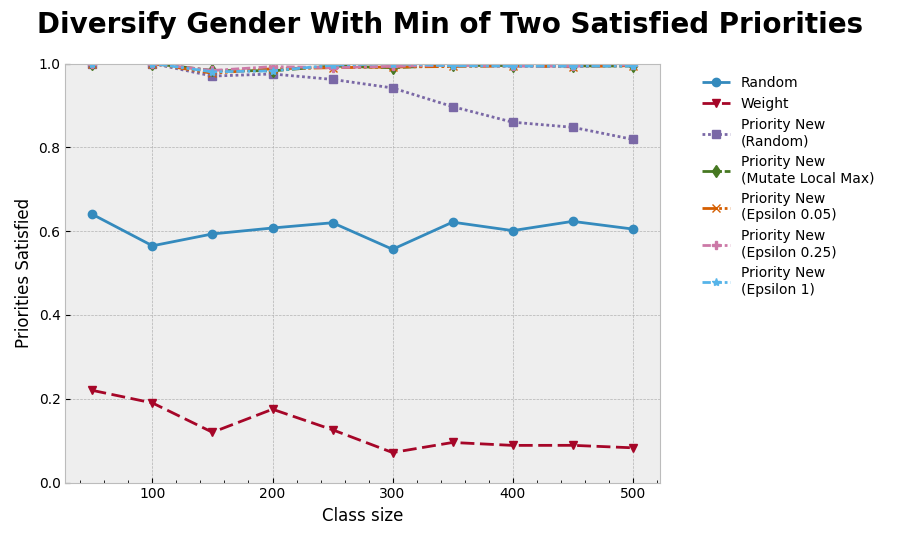
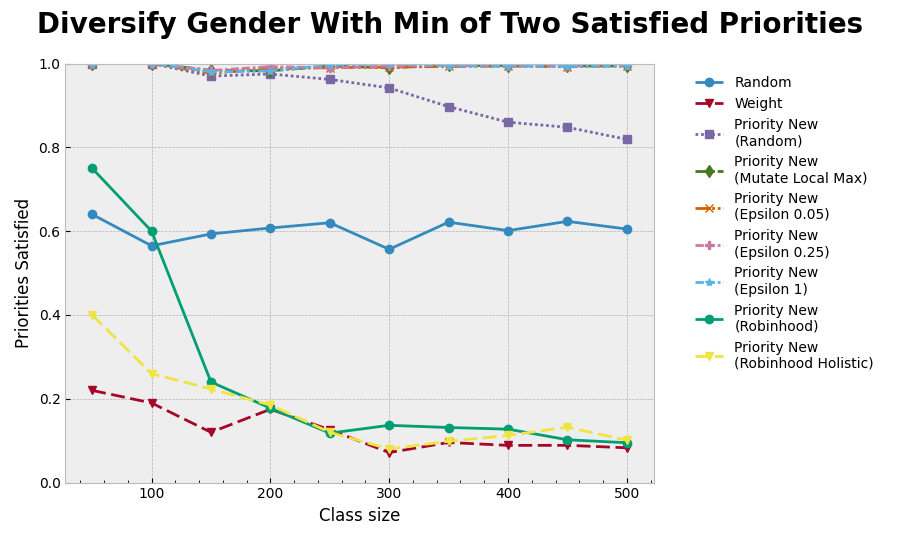
Update graphs with new data

diff --git a/benchmarking/runs/construct_graphs.py b/benchmarking/runs/construct_graphs.py
@@ -45,6 +45,8 @@ if __name__ == "__main__":
         "epsilon-0.05",
         "epsilon-0.25",
         "epsilon-1",
+        "robinhood",
+        "robinhood-holistic",
     ]
 
     # Produce a set of graphs for each scenario
@@ -75,8 +77,11 @@ if __name__ == "__main__":
 
         # Read the data from the files
         for mutation in mutations:
-            with open(f"{scenario}-{mutation}.json", "r") as f:
-                json_graph_dicts: List[Dict[str, GraphData]] = jsonpickle.decode(f.read())
+            try:
+                with open(f"{scenario}-{mutation}.json", "r") as f:
+                    json_graph_dicts: List[Dict[str, GraphData]] = jsonpickle.decode(f.read())
+            except FileNotFoundError:
+                continue
 
             for graph_dict in json_graph_dicts:
                 for algorithm_type, graph_data in graph_dict.items():
